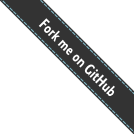
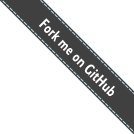
Make the colors a shade lighter.

diff --git a/css/daux-vlang.css b/css/daux-vlang.css
@@ -917,7 +917,7 @@ a.badge:focus {
 }
 .label-inverse,
 .badge-inverse {
-  background-color: #333333;
+  background-color: #404040;
 }
 .label-inverse[href],
 .badge-inverse[href] {
@@ -3725,8 +3725,8 @@ input[type="submit"].btn.btn-mini {
 }
 .navbar .nav li.dropdown > a:hover .caret,
 .navbar .nav li.dropdown > a:focus .caret {
-  border-top-color: #333333;
-  border-bottom-color: #333333;
+  border-top-color: #404040;
+  border-bottom-color: #404040;
 }
 .navbar .nav li.dropdown.open > .dropdown-toggle,
 .navbar .nav li.dropdown.active > .dropdown-toggle,
@@ -5104,7 +5104,7 @@ a.thumbnail:focus {
   right: 0;
   bottom: 0;
   padding: 15px;
-  background: #333333;
+  background: #404040;
   background: rgba(0, 0, 0, 0.75);
 }
 .carousel-caption h4,
@@ -6410,7 +6410,7 @@ Homepage
   }
 }
 .homepage-footer.container-fluid {
-  background-color: #333333;
+  background-color: #404040;
   box-shadow: none;
   -webkit-box-shadow: none;
   -moz-box-shadow: none;
@@ -6640,7 +6640,7 @@ code {
   background-image: none;
   -ms-filter: none;
   filter: none;
-  background-color: #333333;
+  background-color: #404040;
   border-bottom: none;
   padding: 6px 20px;
 }
